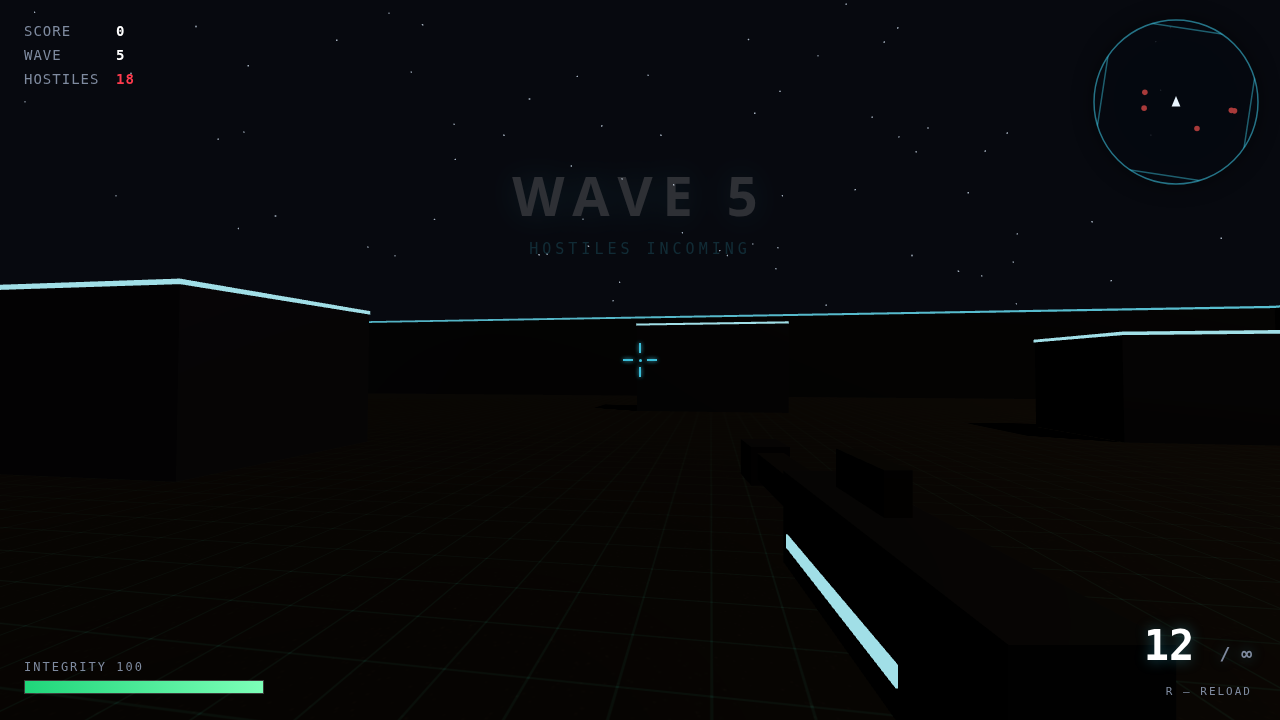
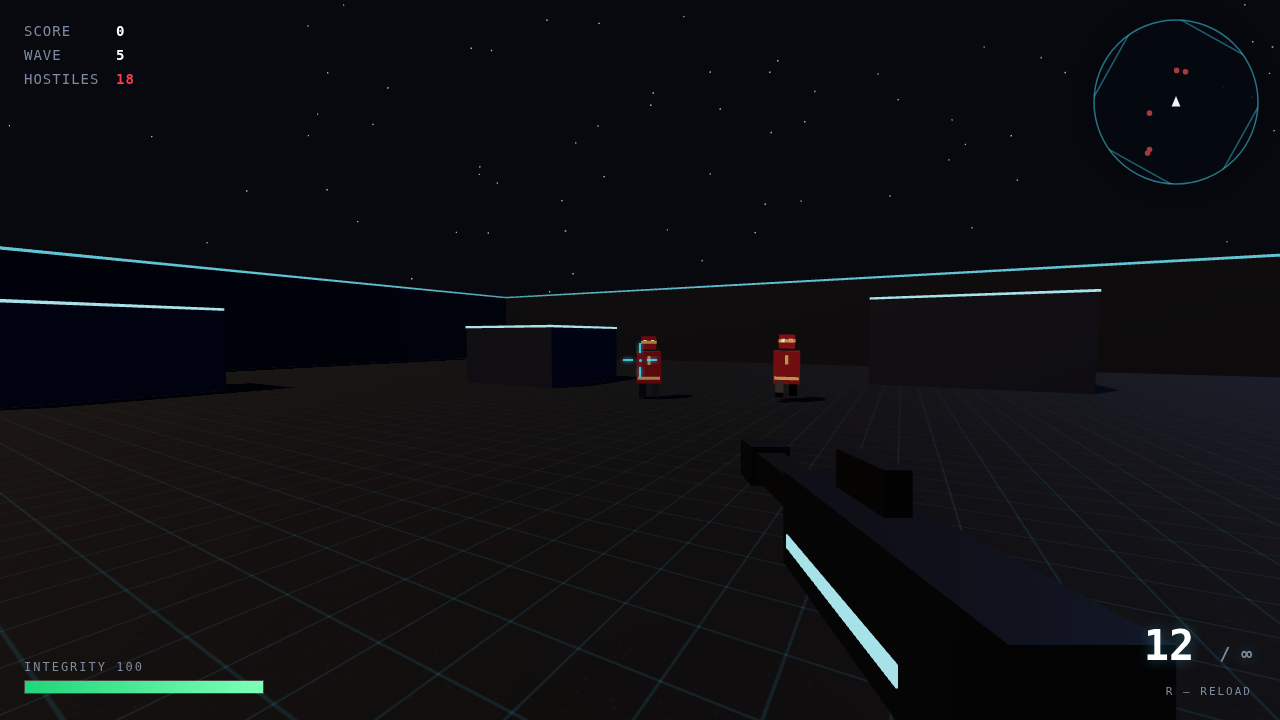
fix: keep enemy colours readable in the dark warehouse
The dark-warehouse pass starved the ambient and hemisphere lights, so the
enemies' MeshStandardMaterials lost their body colour and read as black
silhouettes.

Keep the mood (fog, background, floor/wall palette) but raise the ambient and
hemisphere levels and add a cool fill light opposite the key light, so mobs
keep their variant colours from every angle.

Also corrects the stale pointer-lock note in AGENTS.md and documents the
lighting gotcha.

diff --git a/src/render/Arena.ts b/src/render/Arena.ts
@@ -32,7 +32,7 @@ export class Arena {
     this.renderer.shadowMap.enabled = true;
     this.renderer.shadowMap.type = THREE.PCFSoftShadowMap;
     this.renderer.toneMapping = THREE.ACESFilmicToneMapping;
-    this.renderer.toneMappingExposure = 1.2;
+    this.renderer.toneMappingExposure = 1.3;
     document.body.appendChild(this.renderer.domElement);
 
     this.scene.background = new THREE.Color(0x07090f);
@@ -67,11 +67,12 @@ export class Arena {
   }
 
   private lights(): void {
-    // Dark warehouse: cold dim shell, one warm work lamp raking the floor.
-    this.scene.add(new THREE.HemisphereLight(0x32405a, 0x14171f, 0.7));
-    this.scene.add(new THREE.AmbientLight(0x22283a, 0.55));
+    // Dark warehouse mood, but the floor and props stay lit enough that the
+    // enemies keep their body colours instead of reading as black silhouettes.
+    this.scene.add(new THREE.HemisphereLight(0x6f86b0, 0x2a3040, 1.15));
+    this.scene.add(new THREE.AmbientLight(0x2e3448, 0.7));
 
-    const sun = new THREE.DirectionalLight(0xffd9a0, 1.5);
+    const sun = new THREE.DirectionalLight(0xffd9a0, 2.2);
     sun.position.set(25, 42, 15);
     sun.castShadow = true;
     sun.shadow.mapSize.set(2048, 2048);
@@ -83,6 +84,12 @@ export class Arena {
     sun.shadow.camera.far = 110;
     sun.shadow.bias = -0.0006;
     this.scene.add(sun);
+
+    // Cool fill from the opposite side so enemies facing away from the key
+    // light still show their body colours rather than going black.
+    const fill = new THREE.DirectionalLight(0x8fb4ff, 0.7);
+    fill.position.set(-22, 26, -18);
+    this.scene.add(fill);
   }
 
   private floor(rng: Rng): void {

diff --git a/AGENTS.md b/AGENTS.md
@@ -122,6 +122,10 @@ so the spec re-declares the shapes it uses.
   neighbours. `config.test.ts` asserts this.
 - Adding to `ENEMY_TYPES` means touching `WAVES.HP_PER_WAVE`, `composition()`,
   and the `Object.entries(ENEMY_TYPES)` assertions in `config.test.ts`.
+- The dark-warehouse look comes from background, fog and the floor/wall palette.
+  Do not get moody by starving the ambient/hemisphere lights — below roughly
+  `1.0` hemisphere the enemy `MeshStandardMaterial`s lose their body colour and
+  read as black silhouettes.
 - The E2E takes ~2 minutes and has a 15-minute ceiling. Budget new waits
   deliberately rather than raising the timeout.
 
@@ -130,10 +134,9 @@ so the spec re-declares the shapes it uses.
 - Re-lock taps no longer fire the gun: `pointerlockchange` resets
   `Input.firing = false` whenever pointer lock is gained, so a carried-over
   trigger pull from a tap can't enter play.
-- Re-lock requests now only come from clicks on the game canvas / its
-  descendant elements, not arbitrary HUD or overlay clicks — this stops buttons
-  from juggling the lock and being mistaken for shots. `mousedown` still starts
-  firing while already locked (so unrestricted `?test` shooting works).
+- Re-lock requests come from any bare document click (except while the settings
+  overlay is open), so the pause screen's "click to resume" works. `mousedown`
+  starts firing and `mouseup` clears it.
 - Runtime behaviour of the game/state machine unchanged: movement and firing
   remain independent, which is what makes simultaneous WASD + aim possible at all.
 - OS limitation (unchanged): many trackpads have "disable touchpad while typing"
